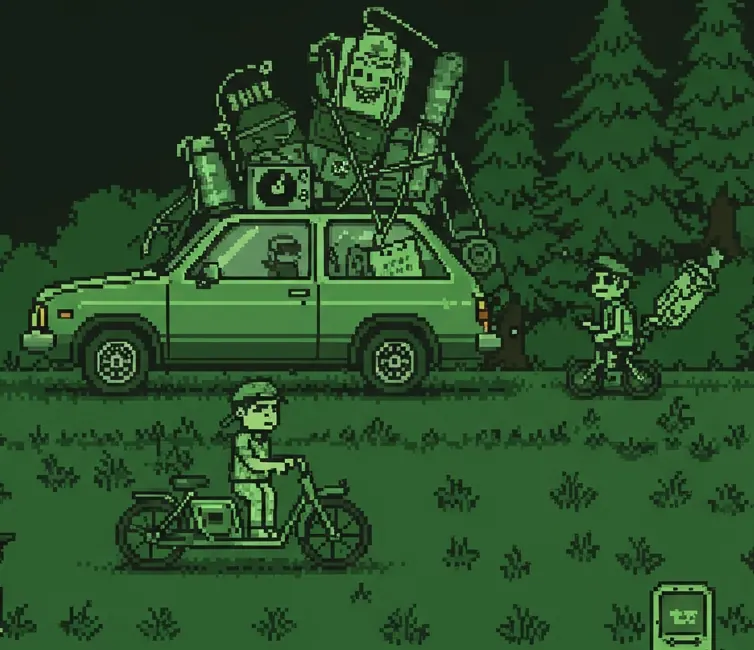
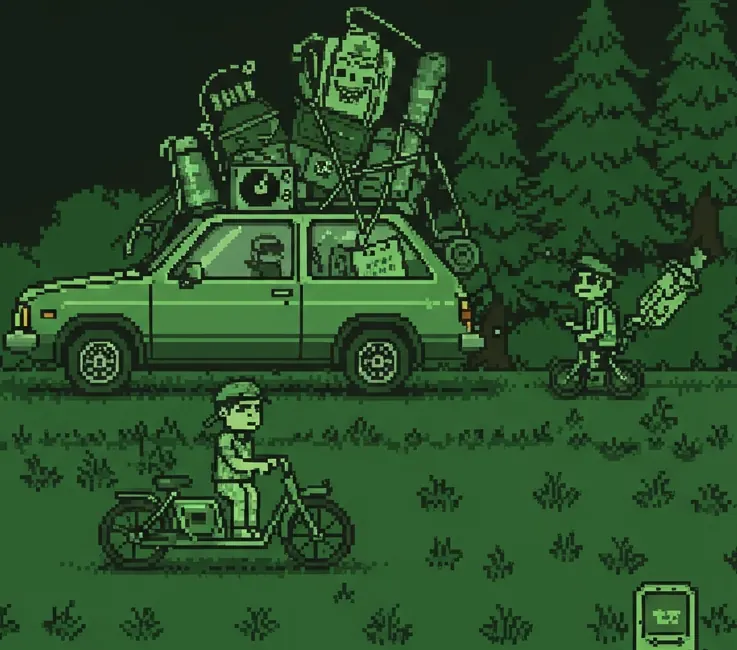
fix: recropped bike-convoy, motel and wifi; breakdown sign reads THE PORTLAND TRAIL; checked repair and crop bounds
The crops now match the amended spec section 7, each checked at 8x:
- bike-convoy 287,250,1024,900: no sliver of the cut-off boy at the left edge; the bumper starts 3 px inside
- motel 0,195,1024,1024: the baked title is gone; the MOTEL sign and the lamp are whole
- wifi 0,105,1024,865: the baked NO SIGNAL caption and its two icons are gone

The breakdown scene's panel is painted flat inside its own frame, as a polygon (`area`) that keeps the left
bevel, the dashed and dotted inner lines and the small THE above. It is set PORTLAND over TRAIL at scale 5 with
the sign's own straight-down drop shadow (`shadow`), in colours sampled from the panel.

repair() refuses a rectangle or area outside the image, and a line or shadow that does not fit its rectangle.
Scene and sprite crops are range-checked by the same helper. The title, victory and loss scenes, the sprites,
the icons and the font are byte-identical, and a second run changes nothing.

diff --git a/app/scripts/prepare-assets.py b/app/scripts/prepare-assets.py
@@ -67,7 +67,7 @@ SCENES = {
     'travel': (original(8), (0, 340, 1024, 940)),
     'departure': (original(5), None),
     'rest-stop': (original(11), None),
-    'motel': (original(12), None),
+    'motel': (original(12), (0, 195, 1024, 1024)),
     'landmark': (original(18), None),
     'crypto': (original(10), None),
     'food-carts': (original(1), None),
@@ -77,9 +77,9 @@ SCENES = {
     'doomscrolling': (original(13), (0, 160, 1024, 1024)),
     'illness': (original(3), None),
     'free-box': (original(15), (0, 125, 1024, 1024)),
-    'wifi': (original(2), (0, 105, 1024, 930)),
+    'wifi': (original(2), (0, 105, 1024, 865)),
     'nft': (original(14), None),
-    'bike-convoy': (original(6), (270, 250, 1024, 900)),
+    'bike-convoy': (original(6), (287, 250, 1024, 900)),
     'city-street': (original(7), (0, 110, 1024, 1024)),
     'outbreak': (original(9), (0, 70, 1024, 930)),
     **{
@@ -94,6 +94,9 @@ SCENES = {
 # for a crop. Each line is set in Portland Pixel at a whole-number `scale` in `color`; the lines are centred in
 # `rect` as one block with `gap` pixels between them. `was` is what the sign said before. The colours were sampled
 # from each sign: the fill is the median of its interior, the lettering the median of the original strokes' cores.
+# Two optional keys serve a sign that is not a plain rectangle: `area`, the corners of a polygon (inclusive pixel
+# coordinates) painted flat instead of `rect`, which then only places the lines; and `shadow`, a colour and an
+# [x, y] offset at which the lines are drawn first, for a sign whose own letters cast one.
 REPAIRS = {
     'title': [
         {
@@ -147,6 +150,25 @@ REPAIRS = {
             'color': '#85b578',
             'lines': [{'text': 'GAME OVER', 'scale': 3}, {'text': 'NO SIGNAL', 'scale': 2}],
             'gap': 8,
+        },
+    ],
+    'breakdown': [
+        {
+            'was': 'PORTLAND over TRAL on a speckled panel; the small THE above the panel stays as it is',
+            'rect': [388, 76, 664, 206],
+            # Inside the panel's inner line. The left side keeps the frame's bevel (x 377-387) and the step where
+            # it meets the bottom line, the top-left corner is cut clear of its stepped line, and the bottom-right
+            # follows the dotted diagonal one pixel short of each dot.
+            'area': [
+                [398, 76], [656, 76], [659, 79], [663, 79], [663, 146], [659, 150], [652, 158], [648, 163],
+                [636, 173], [625, 187], [618, 195], [613, 199], [613, 201], [607, 202], [607, 205], [410, 205],
+                [410, 204], [394, 204], [394, 201], [388, 201], [388, 86],
+            ],
+            'fill': '#3c613d',
+            'color': '#c2dcb1',
+            'shadow': {'color': '#0e210e', 'offset': [0, 5]},
+            'lines': [{'text': 'PORTLAND', 'scale': 5}, {'text': 'TRAIL', 'scale': 5}],
+            'gap': 15,
         },
     ],
 }
@@ -228,10 +250,26 @@ def fit_width(image, width: int):
 # Scenes
 
 
+def check_box(what: str, box, size: tuple[int, int]) -> None:
+    """Refuse a (left, top, right, bottom) box that is empty or reaches outside an image of this size."""
+    left, top, right, bottom = box
+    if not (0 <= left < right <= size[0] and 0 <= top < bottom <= size[1]):
+        raise ValueError(f'{what} {list(box)} is empty or lies outside the {size[0]}x{size[1]} image')
+
+
 def repair(image, spec: dict, glyphs: Glyphs) -> None:
     """Paint a sign's interior flat and set its lines in the pixel face, centred."""
+    check_box('the repair rectangle', spec['rect'], image.size)
     left, top, right, bottom = spec['rect']
-    ImageDraw.Draw(image).rectangle((left, top, right - 1, bottom - 1), fill=spec['fill'])
+    draw = ImageDraw.Draw(image)
+    if 'area' in spec:
+        corners = [(x, y) for x, y in spec['area']]
+        if len(corners) < 3 or not all(0 <= x < image.width and 0 <= y < image.height for x, y in corners):
+            size = f'{image.width}x{image.height}'
+            raise ValueError(f'the repair area {spec["area"]} is not a polygon inside the {size} image')
+        draw.polygon(corners, fill=spec['fill'])
+    else:
+        draw.rectangle((left, top, right - 1, bottom - 1), fill=spec['fill'])
     lines = [(line['text'], line['scale']) for line in spec['lines']]
     if not lines:
         return
@@ -242,13 +280,24 @@ def repair(image, spec: dict, glyphs: Glyphs) -> None:
         extents.append((min(lit), max(lit)))  # capitals light rows 1-7 of the cell, descenders row 8
     heights = [(last - first + 1) * scale for (_, scale), (first, last) in zip(lines, extents)]
     block = sum(heights) + spec['gap'] * (len(lines) - 1)
-    if max(widths) + 2 > right - left or block + 2 > bottom - top:
-        raise ValueError(f'the lines {lines} do not fit inside {spec["rect"]}')
+    shadow = spec.get('shadow')
+    offsets = [(0, 0)] + ([tuple(shadow['offset'])] if shadow else [])
     y = top + (bottom - top - block) // 2
+    placed = []
     for (text, scale), width, (first, _), height in zip(lines, widths, extents, heights):
         x = left + (right - left - width) // 2
-        pixelfont.draw_text(image, (x, y - first * scale), text, glyphs, scale, spec['color'])
+        # The lit pixels of the line, and of its shadow, keep at least one pixel clear of the rectangle's edge.
+        if not all(left < x + dx and x + dx + width < right and top < y + dy and y + dy + height < bottom
+                   for dx, dy in offsets):
+            raise ValueError(f'"{text}" at scale {scale} does not fit inside {spec["rect"]}')
+        placed.append((text, scale, x, y - first * scale))
         y += height + spec['gap']
+    if shadow:
+        dx, dy = shadow['offset']
+        for text, scale, x, y in placed:
+            pixelfont.draw_text(image, (x + dx, y + dy), text, glyphs, scale, shadow['color'])
+    for text, scale, x, y in placed:
+        pixelfont.draw_text(image, (x, y), text, glyphs, scale, spec['color'])
 
 
 def scene(scene_id: str, glyphs: Glyphs, repaired: bool = True):
@@ -257,8 +306,7 @@ def scene(scene_id: str, glyphs: Glyphs, repaired: bool = True):
     with Image.open(ROOT / source) as opened:
         image = opened.convert('RGB')
     if crop:
-        if not (0 <= crop[0] < crop[2] <= image.width and 0 <= crop[1] < crop[3] <= image.height):
-            raise ValueError(f'{scene_id}: the crop {crop} lies outside the {image.width}x{image.height} source')
+        check_box(f'the crop of {scene_id}', crop, image.size)
         image = image.crop(crop)
     if repaired:
         for spec in REPAIRS.get(scene_id, []):
@@ -296,6 +344,7 @@ def sprite(source: str, crop, cell: tuple[int, int]):
     with Image.open(ROOT / source) as opened:
         image = opened.convert('RGBA')
     if crop:
+        check_box(f'the crop of {source}', crop, image.size)
         image = image.crop(crop)
     bounds = image.getchannel('A').point(lambda alpha: 255 if alpha > ALPHA_FLOOR else 0).getbbox()
     if bounds:
